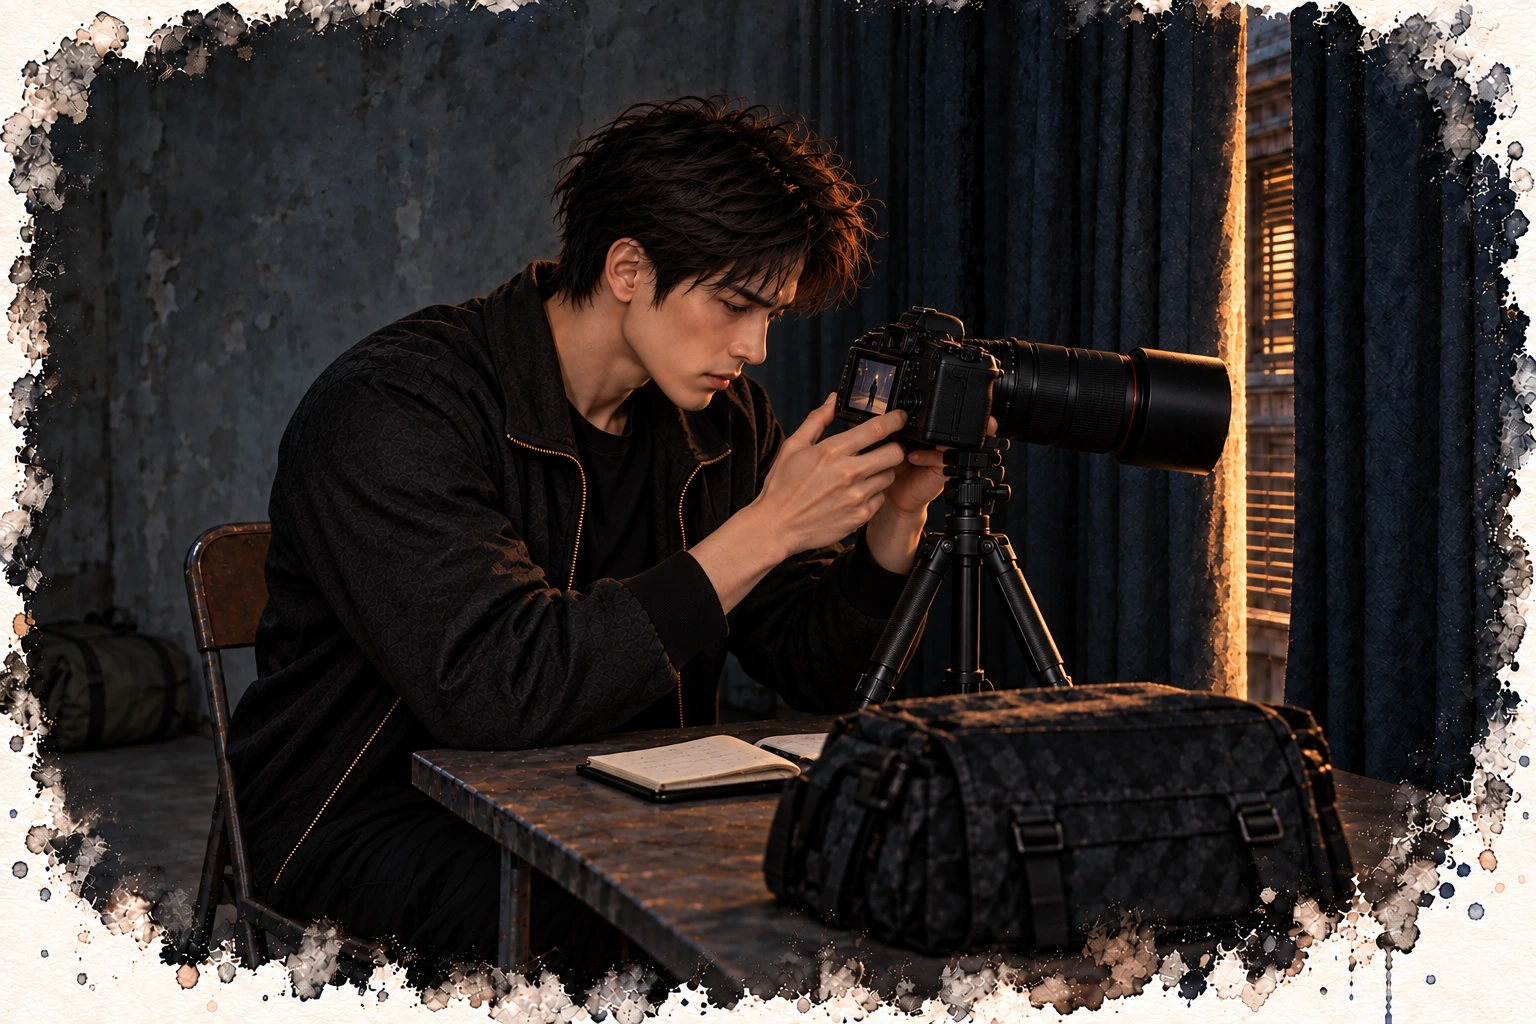
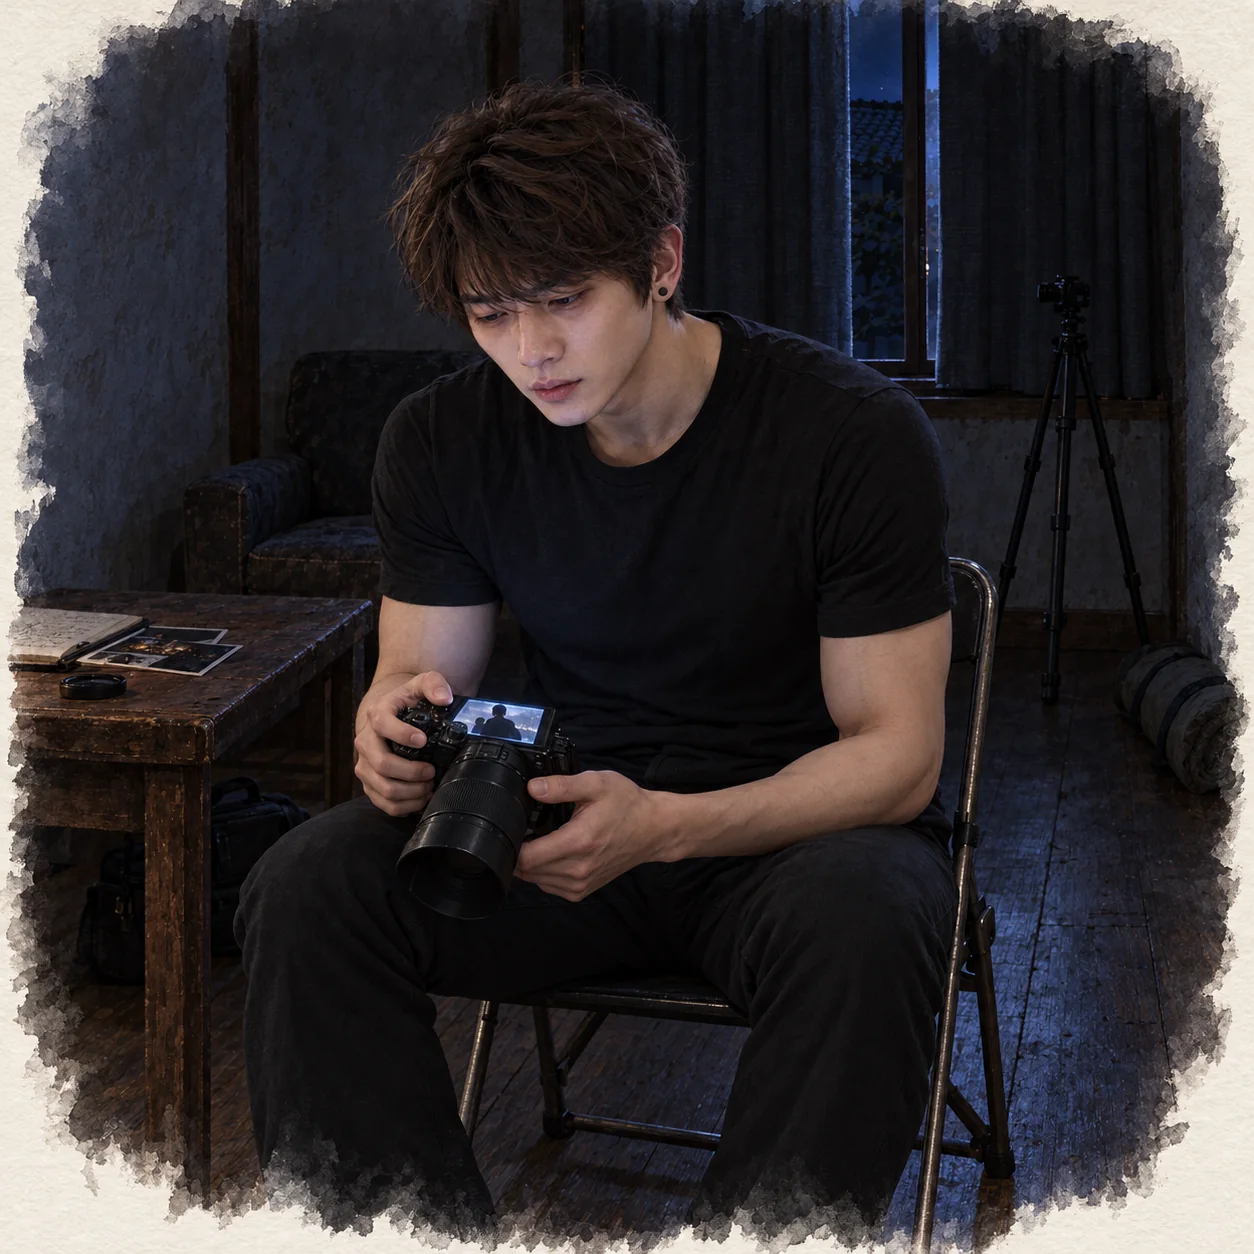
沒有招牌的酒吧 第一部第九章：替換陸曜插圖
Claude-Session: https://claude.ai/code/session_01HUwf2ENyDuzceKaKYawxmj

diff --git a/novels/no-signboard-bar/chapter-09.html b/novels/no-signboard-bar/chapter-09.html
@@ -150,7 +150,7 @@
 <p>然後，繼續往下。</p>
 </section>
 <section class="pov pov-lu" data-name="陸曜">
-<div class="pov-opening"><h2 class="pov-title" id="pov-3"><span>敘事視角</span>陸曜</h2><a class="pov-art" href="../../assets/novels/no-signboard-bar/chapter-09-lu-yao.webp" target="_blank" rel="noopener" aria-label="開啟陸曜插圖大圖"><img src="../../assets/novels/no-signboard-bar/chapter-09-lu-yao.webp" alt="陸曜坐在窗邊查看相機裡的夜巷背影，手停在按鍵旁，尚未決定是否刪除。" width="1536" height="1024" loading="lazy" decoding="async"><span class="pov-cap">我兩個都沒做。我把它留在相機裡，像留一顆沒拆的炸彈。</span></a><div class="pov-intro"><p>手機在凌晨十二點零五分響起來。</p>
+<div class="pov-opening"><h2 class="pov-title" id="pov-3"><span>敘事視角</span>陸曜</h2><a class="pov-art" href="../../assets/novels/no-signboard-bar/chapter-09-lu-yao.webp?v=20261013" target="_blank" rel="noopener" aria-label="開啟陸曜插圖大圖"><img src="../../assets/novels/no-signboard-bar/chapter-09-lu-yao.webp?v=20261013" alt="深夜對面三樓的空房，陸曜坐在摺疊椅上，低頭看著相機螢幕裡剛拍下的江澈背影，腳架和睡袋擱在一旁。" width="1254" height="1254" loading="lazy" decoding="async"><span class="pov-cap">我兩個都沒做。我把它留在相機裡，像留一顆沒拆的炸彈。</span></a><div class="pov-intro"><p>手機在凌晨十二點零五分響起來。</p>
 <p>那個沒有名字的號碼。半夜打來，從來不是要說晚安。</p>
 <p>「陸曜。」</p></div></div>
 <p>「在。」</p>
